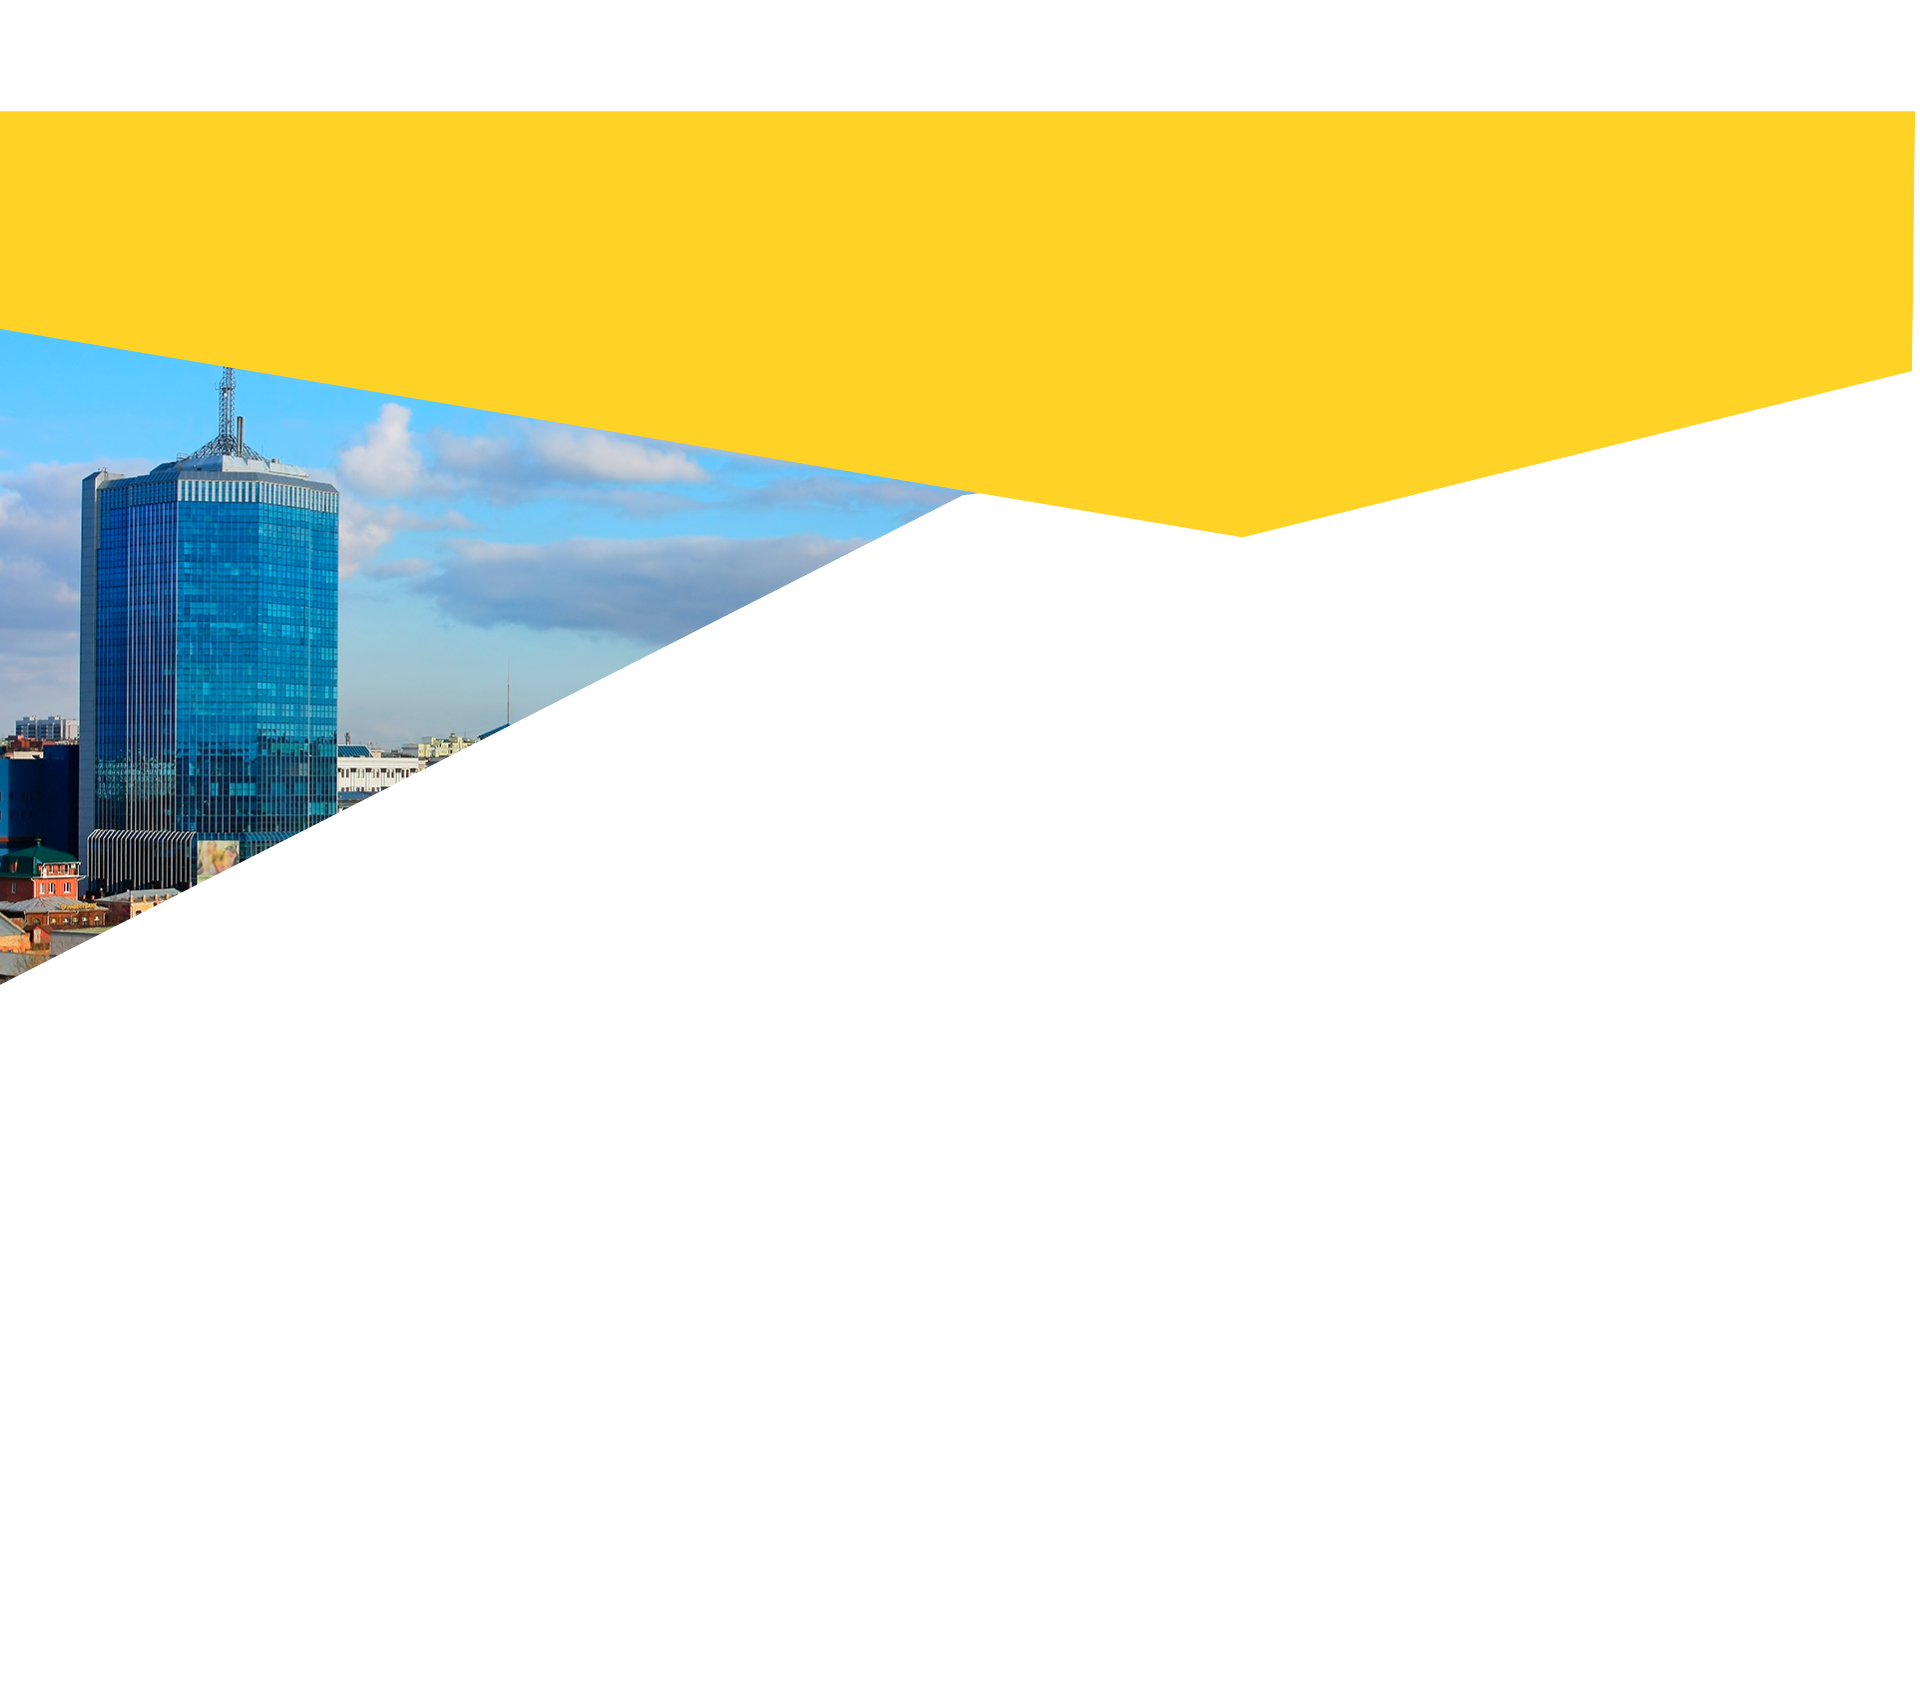
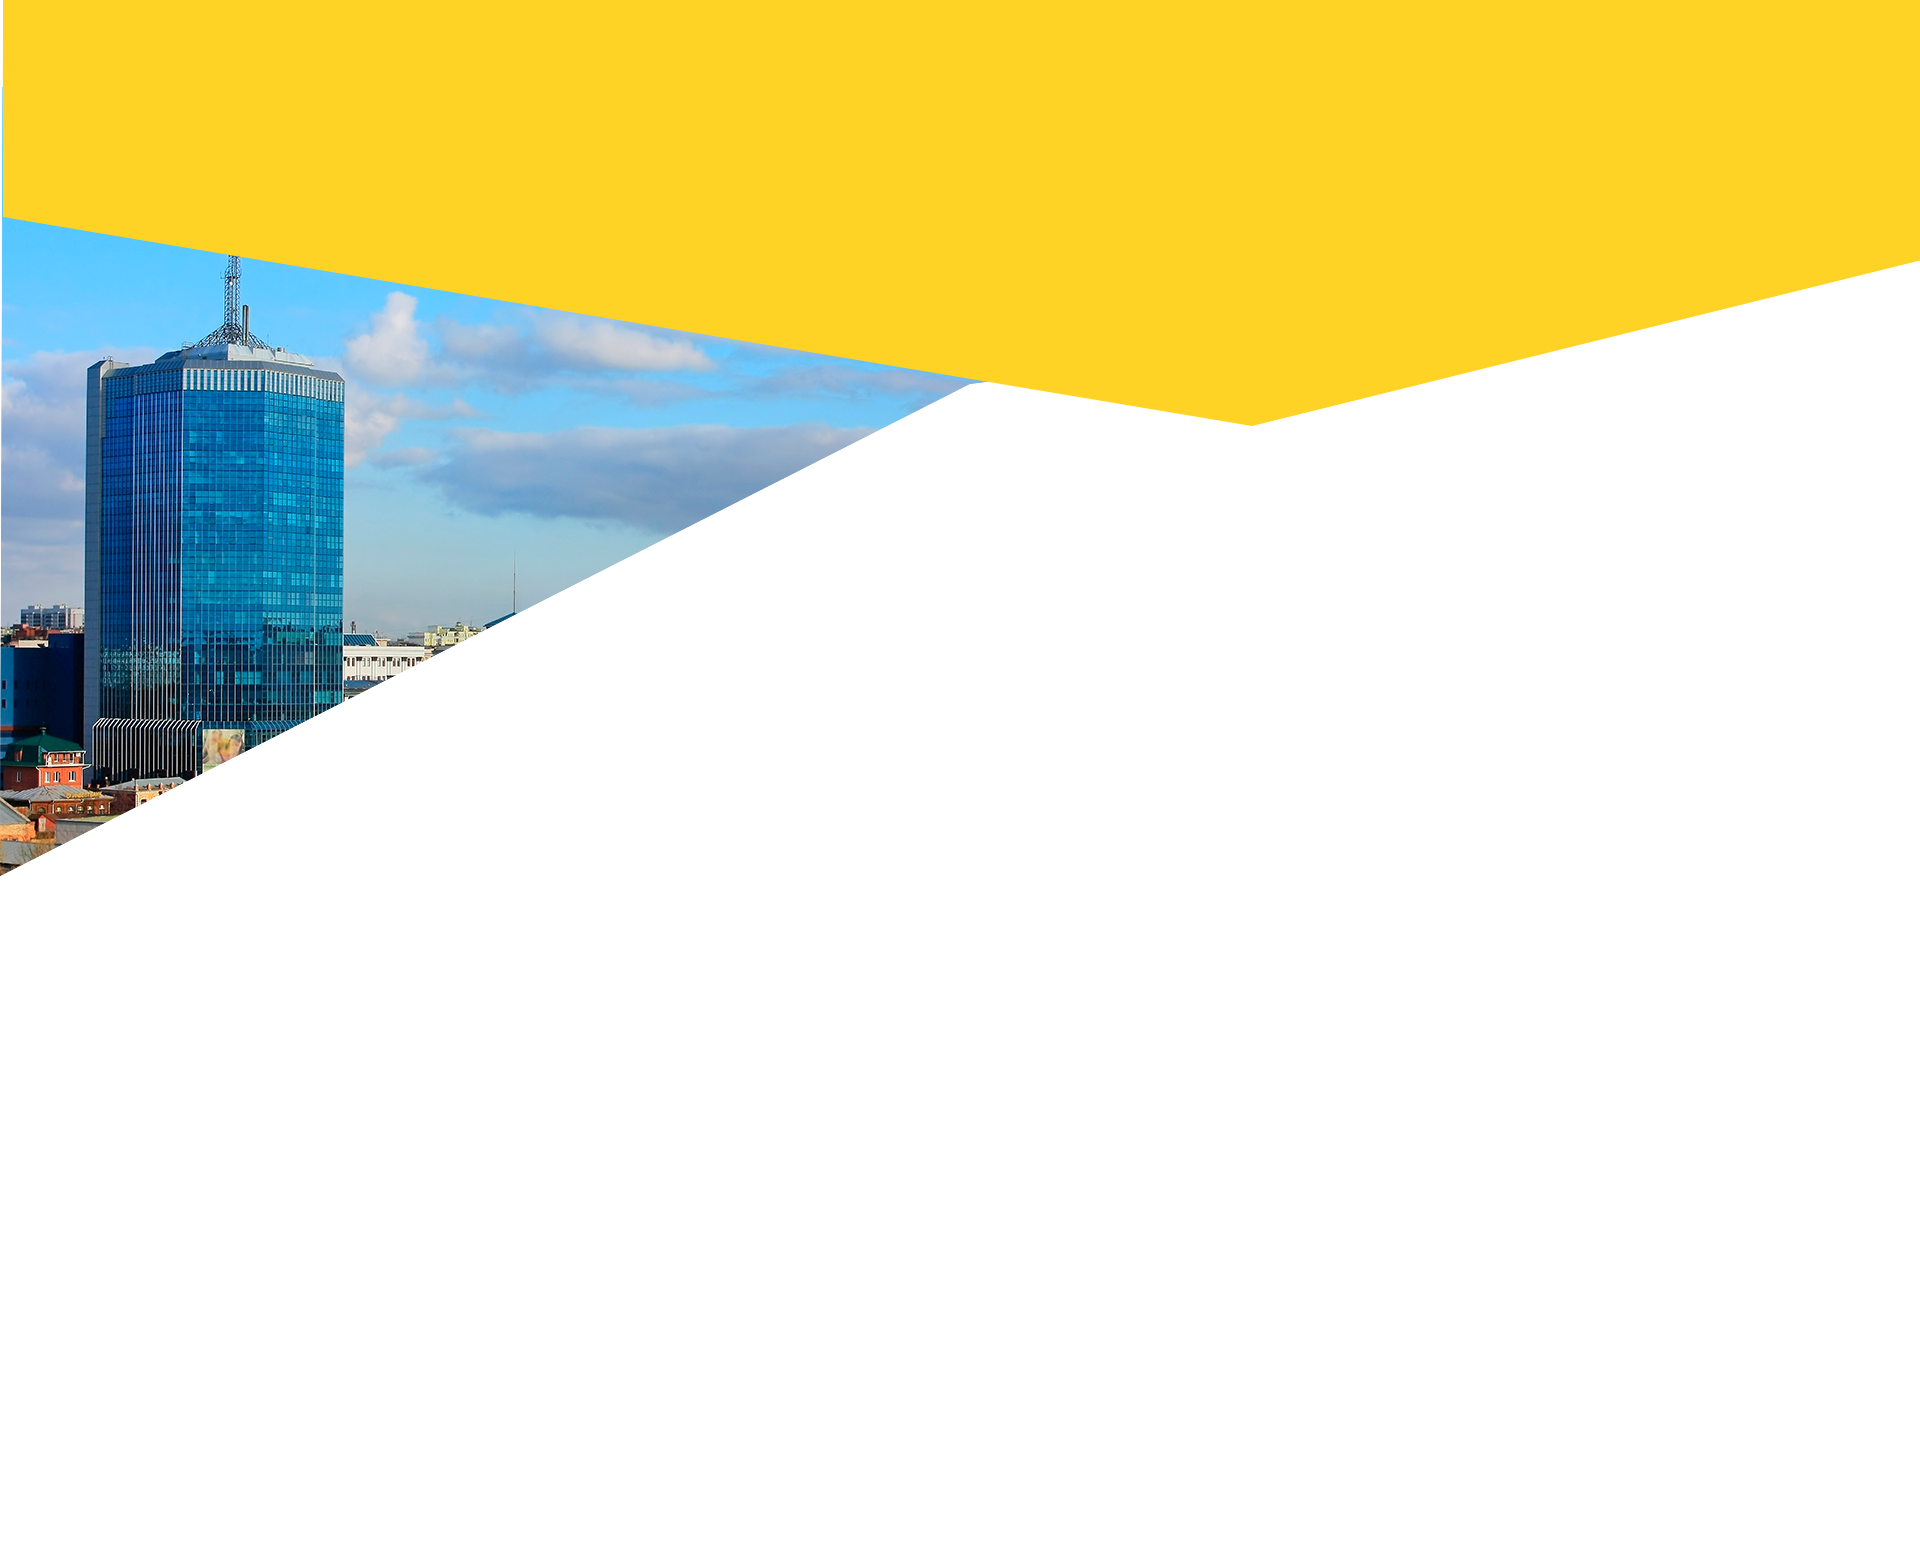
section4 test

Changed region(s): [[0.0, 0.1239, 1.0, 0.5884], [0.0, 0.0, 1.0, 0.0929]]

diff --git a/css/style.css b/css/style.css
@@ -269,7 +269,7 @@ body::-webkit-scrollbar-thumb {
         justify-content: center; }
   .section--3 {
     width: 100%;
-    height: 95rem; }
+    height: 110rem; }
     .section--3__info-box {
       display: flex;
       flex-direction: column;
@@ -414,7 +414,7 @@ body::-webkit-scrollbar-thumb {
     align-items: center; }
     .section .parallax-2__container {
       position: absolute;
-      top: 0;
+      top: -10rem;
       left: 0;
       right: 0;
       width: 100%;

diff --git a/sass/_content.scss b/sass/_content.scss
@@ -164,7 +164,7 @@
 
   &--3 {
     width: 100%;
-    height: 95rem;
+    height: 110rem;
 
     &__info-box {
       display: flex;
@@ -361,7 +361,7 @@
   .parallax-2 {
     &__container {
       position: absolute;
-      top: 0;
+      top: -10rem;
       left: 0;
       right: 0;
       width: 100%;
